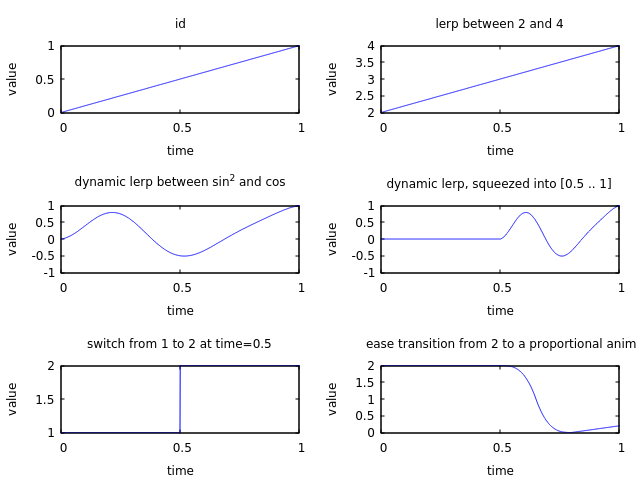
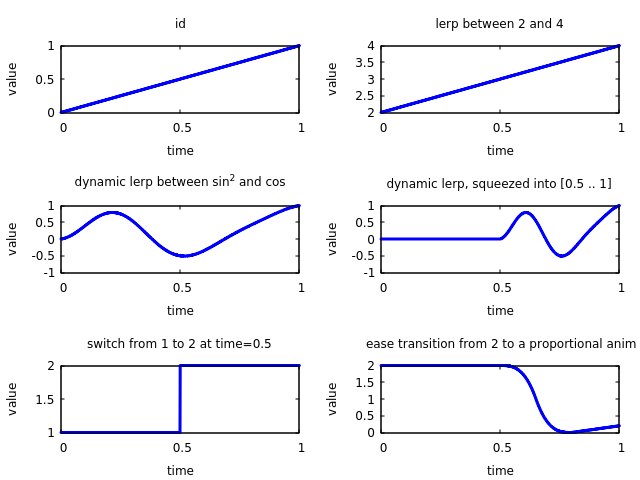
Make lines thicker

diff --git a/examples/plots.rs b/examples/plots.rs
@@ -1,4 +1,4 @@
-use gnuplot::{AutoOption, AxesCommon, Color, Figure};
+use gnuplot::{AutoOption, AxesCommon, Color, Figure, LineWidth};
 
 fn main() {
     let mut plots = Plots { plots: Vec::new() };
@@ -82,7 +82,7 @@ impl Plots {
         for (i, plot) in self.plots.iter().enumerate() {
             figure
                 .axes2d()
-                .lines(&plot.ts, &plot.vs, &[Color("blue")])
+                .lines(&plot.ts, &plot.vs, &[Color("blue"), LineWidth(3.0)])
                 .set_title(&plot.name, &[])
                 .set_x_label("time", &[])
                 .set_y_label("value", &[])

diff --git a/src/lib.rs b/src/lib.rs
@@ -1,6 +1,6 @@
 //! Pareen is a small library for *par*ameterized inbetw*een*ing.
 //!
-//! Its intended application is in game programming, where you sometimes have
+//! The intended application is in game programming, where you sometimes have
 //! two discrete game states between which you want to transition smoothly
 //! for visualization purposes.
 //!

diff --git a/README.md b/README.md
@@ -1,9 +1,9 @@
 # Pareen
 Pareen is a small library for *par*ameterized inbetw*een*ing.
 
-Its intended application is in game programming, where you sometimes have
-two discrete game states between which you want to transition smoothly
-for visualization purposes.
+The intended application is in game programming, where you sometimes have 
+two discrete game states between which you want to transition smoothly for
+visualization purposes.
 
 Pareen gives you tools for composing animations that are parameterized by
 time (i.e. mappings from time to some animated value) without constantly
